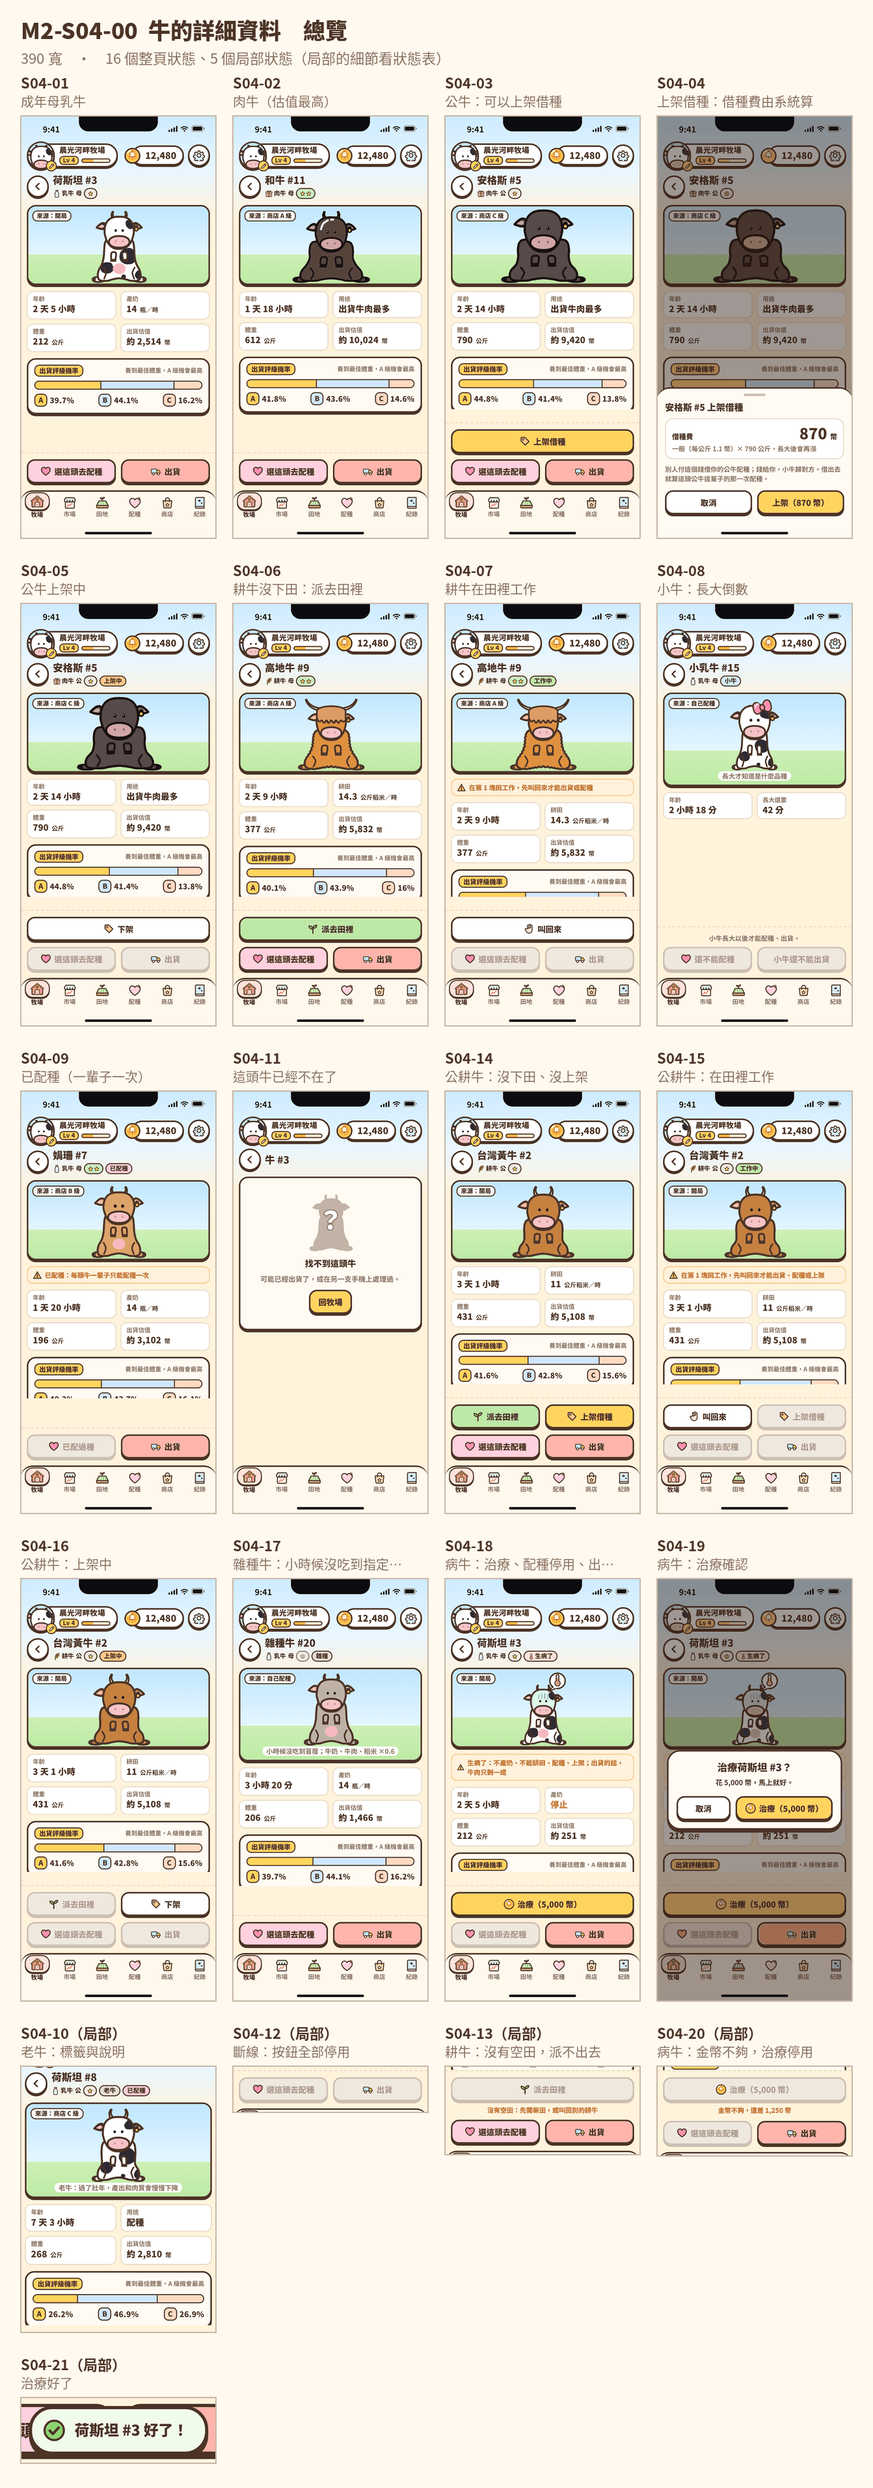
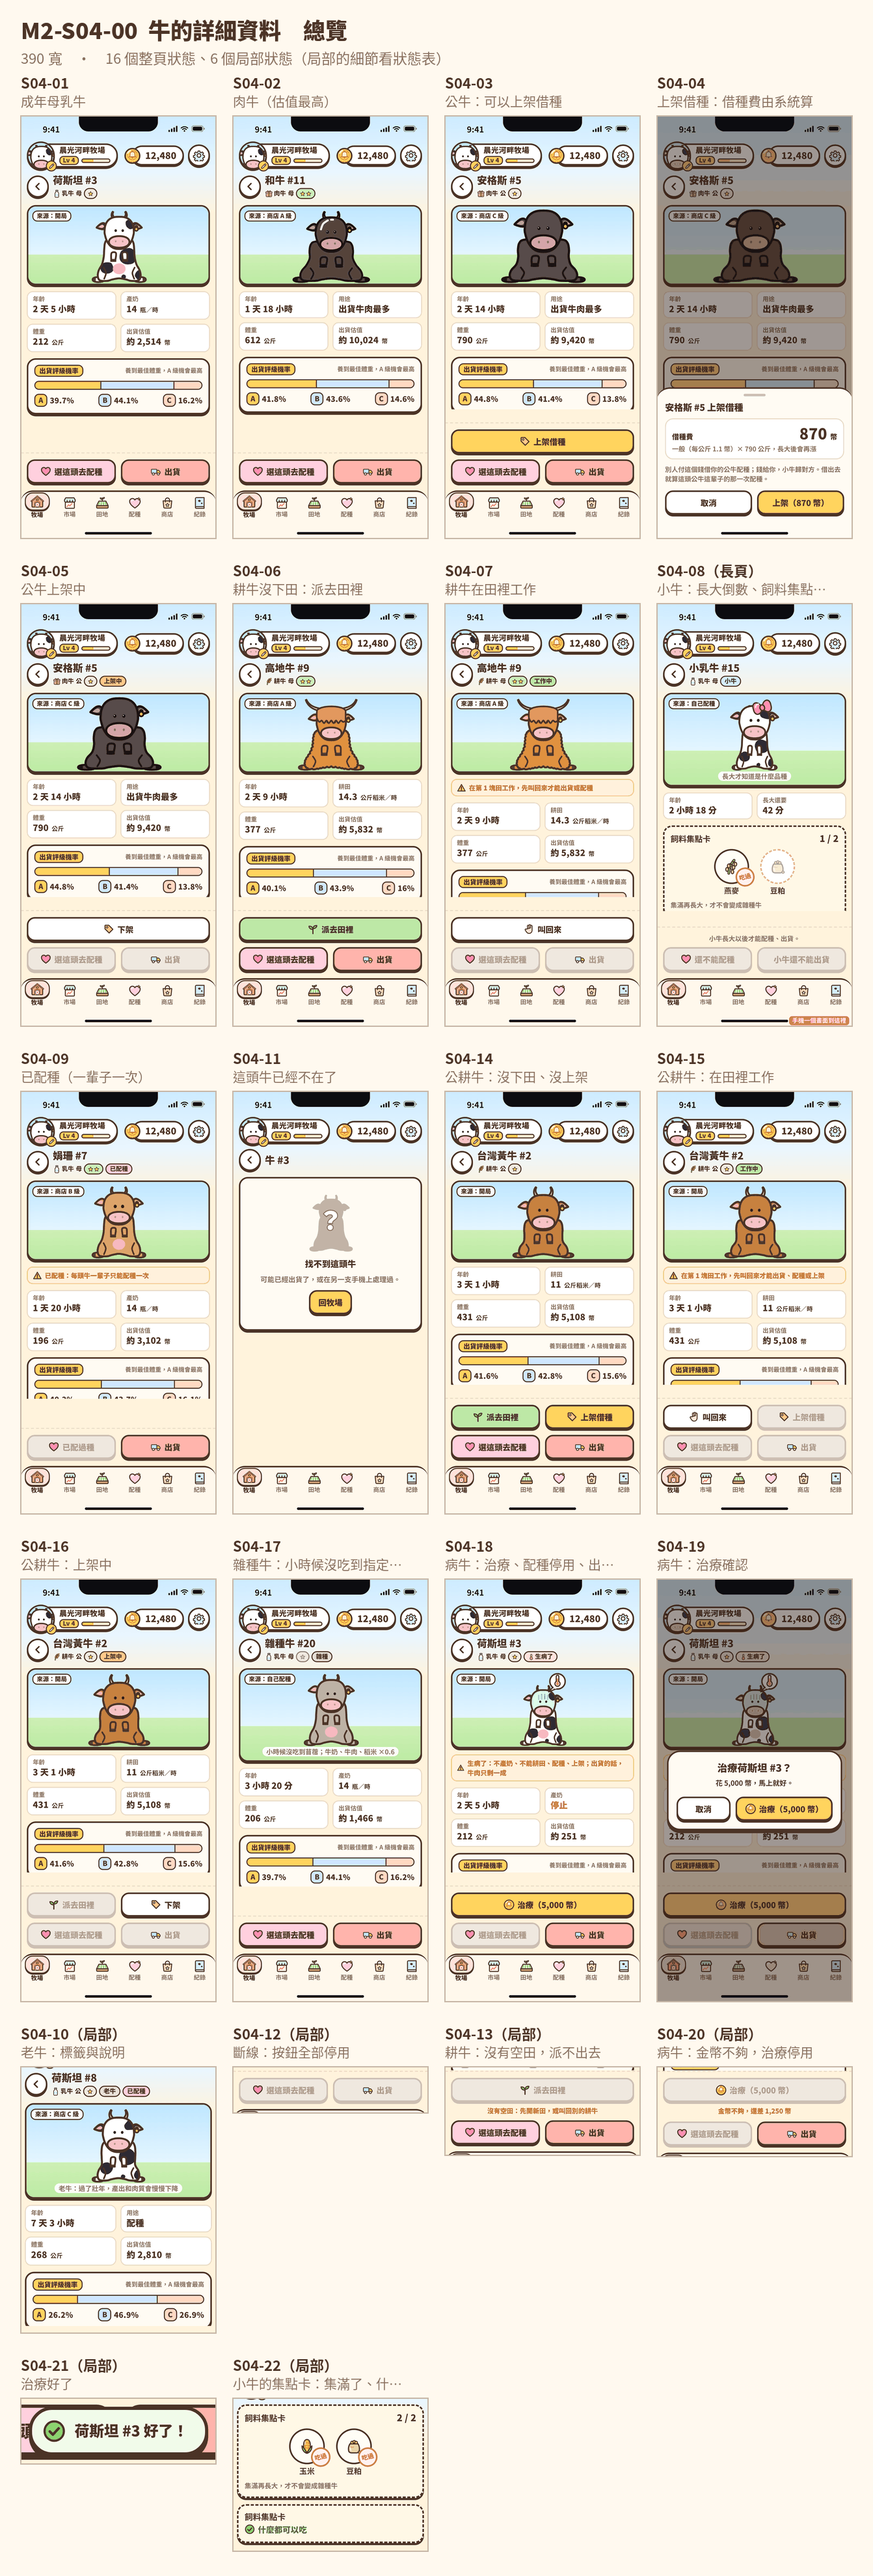
PR 5：重拍、合成（S03-07、S04-08 變了；新增 S03-31～33、S04-22）、量測摘要；S04-08 改成長頁（集點卡整張看得到）；量測把快長大提醒卡（.grow-alert）當成蓋在頁面上的元件

diff --git a/design/m2/src/js/screens/s04.js b/design/m2/src/js/screens/s04.js
@@ -87,7 +87,7 @@ full('S04-07', '耕牛在田裡工作', (ctx) => detailPage(ctx, { ...cowById(9)
   buttons: `${btn(t('s04.recall'), { ic: 'hand', block: true })}<div class="btn-row" style="margin-top:12px">${breedBtn(true)}${shipBtn(true)}</div>`,
 }));
 // 小牛（第 15 輪 01-C 集點卡）：#15 要吃燕麥、豆粕，吃過燕麥（1 / 2）
-full('S04-08', '小牛：長大倒數、飼料集點卡', (ctx) => detailPage(ctx, CALF_DEMO[15], { buttons: `<p class="hint" style="text-align:center">${t('s04.calfHint')}</p><div class="btn-row" style="margin-top:8px">${breedBtn(true, t('s04.cantBreedYet'))}${btn(t('shipNotAdult'), { kind: 'danger', disabled: true })}</div>` }));
+full('S04-08', '小牛：長大倒數、飼料集點卡（長頁）', (ctx) => detailPage(ctx, CALF_DEMO[15], { buttons: `<p class="hint" style="text-align:center">${t('s04.calfHint')}</p><div class="btn-row" style="margin-top:8px">${breedBtn(true, t('s04.cantBreedYet'))}${btn(t('shipNotAdult'), { kind: 'danger', disabled: true })}</div>` }), { tall: true });
 full('S04-09', '已配種（一輩子一次）', (ctx) => detailPage(ctx, { ...cowById(7), bred: true }, {
   note: t('s04.noteBred'),
   buttons: `<div class="btn-row">${breedBtn(true, t('s04.alreadyBred'))}${shipBtn(false)}</div>`,

diff --git a/design/m2/measure/summary-th.md b/design/m2/measure/summary-th.md
@@ -9,10 +9,10 @@
 
 | 寬度 | 狀態數 | 最小字級 | 有問題的狀態 | 橫向捲動 | 刻意截成「…」 | 要往下捲的狀態 |
 |---|---|---|---|---|---|---|
-| 430×932 | 217 | 12 px | 0 | 0 | 0 | 41 |
-| 390×844 | 217 | 12 px | 0 | 0 | 2 | 53 |
-| 360×800 | 217 | 12 px | 2 | 0 | 4 | 69 |
-| 320×568 | 217 | 12 px | 3 | 0 | 140 | 96 |
+| 430×932 | 221 | 12 px | 0 | 0 | 0 | 41 |
+| 390×844 | 221 | 12 px | 0 | 0 | 2 | 53 |
+| 360×800 | 221 | 12 px | 2 | 0 | 4 | 70 |
+| 320×568 | 221 | 12 px | 3 | 0 | 144 | 97 |
 
 ## 430×932
 
@@ -180,7 +180,7 @@
 | S19-05 | 320 | ความหายาก、หายาก | เลือกได้แค่เกรด ส่วนประเภท เพศ และความหา⏎ยากจะสุ่ม โดยเปิดเผยโอกาสทั้งหมด วัวที่ได้จะ⏎เป็นลูกวัว |
 | S19-05 | 320 | หายาก | สุ่มได้วัวหา⏎ยากง่าย⏎ที่สุด |
 
-<details><summary>所有換了行的泰文（204 句，給校對看斷詞）</summary>
+<details><summary>所有換了行的泰文（206 句，給校對看斷詞）</summary>
 
 | 實際換行（⏎） | Intl.Segmenter 斷詞（\|） |
 |---|---|
@@ -257,6 +257,7 @@
 | ราคารับซื้อเนื้อวัว +100% ตอนนี้ 24 ⏎เหรียญ/กก. | ราคา \| รับ \| ซื้อ \| เนื้อ \| วัว \|   \| + \| 100 \| % \|   \| ตอน \| นี้ \|   \| 24 \|   \| เหรียญ \| / \| กก \| . |
 | โรงงานนมไฟดับ หยุดรับซื้อนมสด⏎ทั้งหมด | โรงงาน \| นม \| ไฟ \| ดับ \|   \| หยุด \| รับ \| ซื้อ \| นม \| สด \| ทั้งหมด |
 | ราคารับซื้อนม −90% ตอนนี้ 1.2 ⏎เหรียญ/ขวด | ราคา \| รับ \| ซื้อ \| นม \|   \| − \| 90 \| % \|   \| ตอน \| นี้ \|   \| 1.2 \|   \| เหรียญ \| / \| ขวด |
+| ลูกวัวนม #15 จะโตในอีก ⏎42 นาที | ลูกวัว \| นม \|   \| # \| 15 \|   \| จะ \| โต \| ใน \| อีก \|   \| 42 \|   \| นาที |
 | เลี้ยงถึงน้ำหนักที่ดีที่สุด ได้เกรด A ⏎ง่ายสุด | เลี้ยง \| ถึง \| น้ำ \| หนัก \| ที่ \| ดี \| ที่สุด \|   \| ได้ \| เกรด \|   \| A \|   \| ง่าย \| สุด |
 | ที่มา:⏎ร้านค้า เกรด A | ที่มา \| : \| ร้าน \| ค้า \|   \| เกรด \|   \| A |
 | ที่มา:⏎ร้านค้า เกรด C | ที่มา \| : \| ร้าน \| ค้า \|   \| เกรด \|   \| C |
@@ -299,6 +300,15 @@
 | น้ำหนัก 268 กก. · มูลค่าราว 2,810 ⏎เหรียญ | น้ำ \| หนัก \|   \| 268 \|   \| กก \| . \|   \| · \|   \| มูลค่า \| ราว \|   \| 2,810 \|   \| เหรียญ |
 | น้ำหนัก 205 กก. · มูลค่าราว 3,240 ⏎เหรียญ | น้ำ \| หนัก \|   \| 205 \|   \| กก \| . \|   \| · \|   \| มูลค่า \| ราว \|   \| 3,240 \|   \| เหรียญ |
 | ไปสุ่มวัวที่ร้านค้า หรือรอลูกวัวที่ผสมพันธุ์ไว้⏎เกิด | ไป \| สุ่ม \| วัว \| ที่ \| ร้าน \| ค้า \|   \| หรือ \| รอ \| ลูกวัว \| ที่ \| ผสม \| พันธุ์ \| ไว้ \| เกิด |
+| ยังไม่ได้กิน:
+    
+    
+    
+    ⏎กากถั่วเหลือง | ยัง \| ไม่ \| ได้ \| กิน \| : \| 
+ \|      \| 
+ \|      \| 
+ \|      \| 
+ \|      \| กาก \| ถั่ว \| เหลือง |
 | ที่มา:⏎ตอนเริ่มเกม | ที่มา \| : \| ตอน \| เริ่ม \| เกม |
 | ธรรมดา (กก.ละ 1.1 เหรียญ) × 790 กก. โตขึ้นจะแพง⏎ขึ้นอีก | ธรรมดา \|   \| ( \| กก \| . \| ละ \|   \| 1.1 \|   \| เหรียญ \| ) \|   \| × \|   \| 790 \|   \| กก \| . \|   \| โต \| ขึ้น \| จะ \| แพง \| ขึ้น \| อีก |
 | ผสมพันธุ์แล้ว: วัวแต่ละตัวผสมพันธุ์ได้ครั้งเดียวใน⏎ชีวิต | ผสม \| พันธุ์ \| แล้ว \| : \|   \| วัว \| แต่ละ \| ตัว \| ผสม \| พันธุ์ \| ได้ \| ครั้ง \| เดียว \| ใน \| ชีวิต |

diff --git a/design/m2/measure/summary-en.md b/design/m2/measure/summary-en.md
@@ -9,10 +9,10 @@
 
 | 寬度 | 狀態數 | 最小字級 | 有問題的狀態 | 橫向捲動 | 刻意截成「…」 | 要往下捲的狀態 |
 |---|---|---|---|---|---|---|
-| 430×932 | 217 | 12 px | 0 | 0 | 0 | 41 |
-| 390×844 | 217 | 12 px | 0 | 0 | 2 | 61 |
-| 360×800 | 217 | 12 px | 1 | 0 | 6 | 70 |
-| 320×568 | 217 | 12 px | 3 | 0 | 140 | 98 |
+| 430×932 | 221 | 12 px | 0 | 0 | 0 | 41 |
+| 390×844 | 221 | 12 px | 0 | 0 | 2 | 62 |
+| 360×800 | 221 | 12 px | 1 | 0 | 6 | 71 |
+| 320×568 | 221 | 12 px | 3 | 0 | 144 | 99 |
 
 ## 430×932
 

diff --git a/design/m2/measure/summary.md b/design/m2/measure/summary.md
@@ -9,10 +9,10 @@
 
 | 寬度 | 狀態數 | 最小字級 | 有問題的狀態 | 橫向捲動 | 刻意截成「…」 | 要往下捲的狀態 |
 |---|---|---|---|---|---|---|
-| 430×932 | 221 | 12 px | 0 | 0 | 0 | 41 |
-| 390×844 | 221 | 12 px | 0 | 0 | 1 | 52 |
-| 360×800 | 221 | 12 px | 0 | 0 | 3 | 61 |
-| 320×568 | 221 | 12 px | 4 | 0 | 142 | 94 |
+| 430×932 | 225 | 12 px | 0 | 0 | 0 | 41 |
+| 390×844 | 225 | 12 px | 0 | 0 | 1 | 52 |
+| 360×800 | 225 | 12 px | 0 | 0 | 3 | 62 |
+| 320×568 | 225 | 12 px | 4 | 0 | 146 | 95 |
 
 ## 430×932
 
